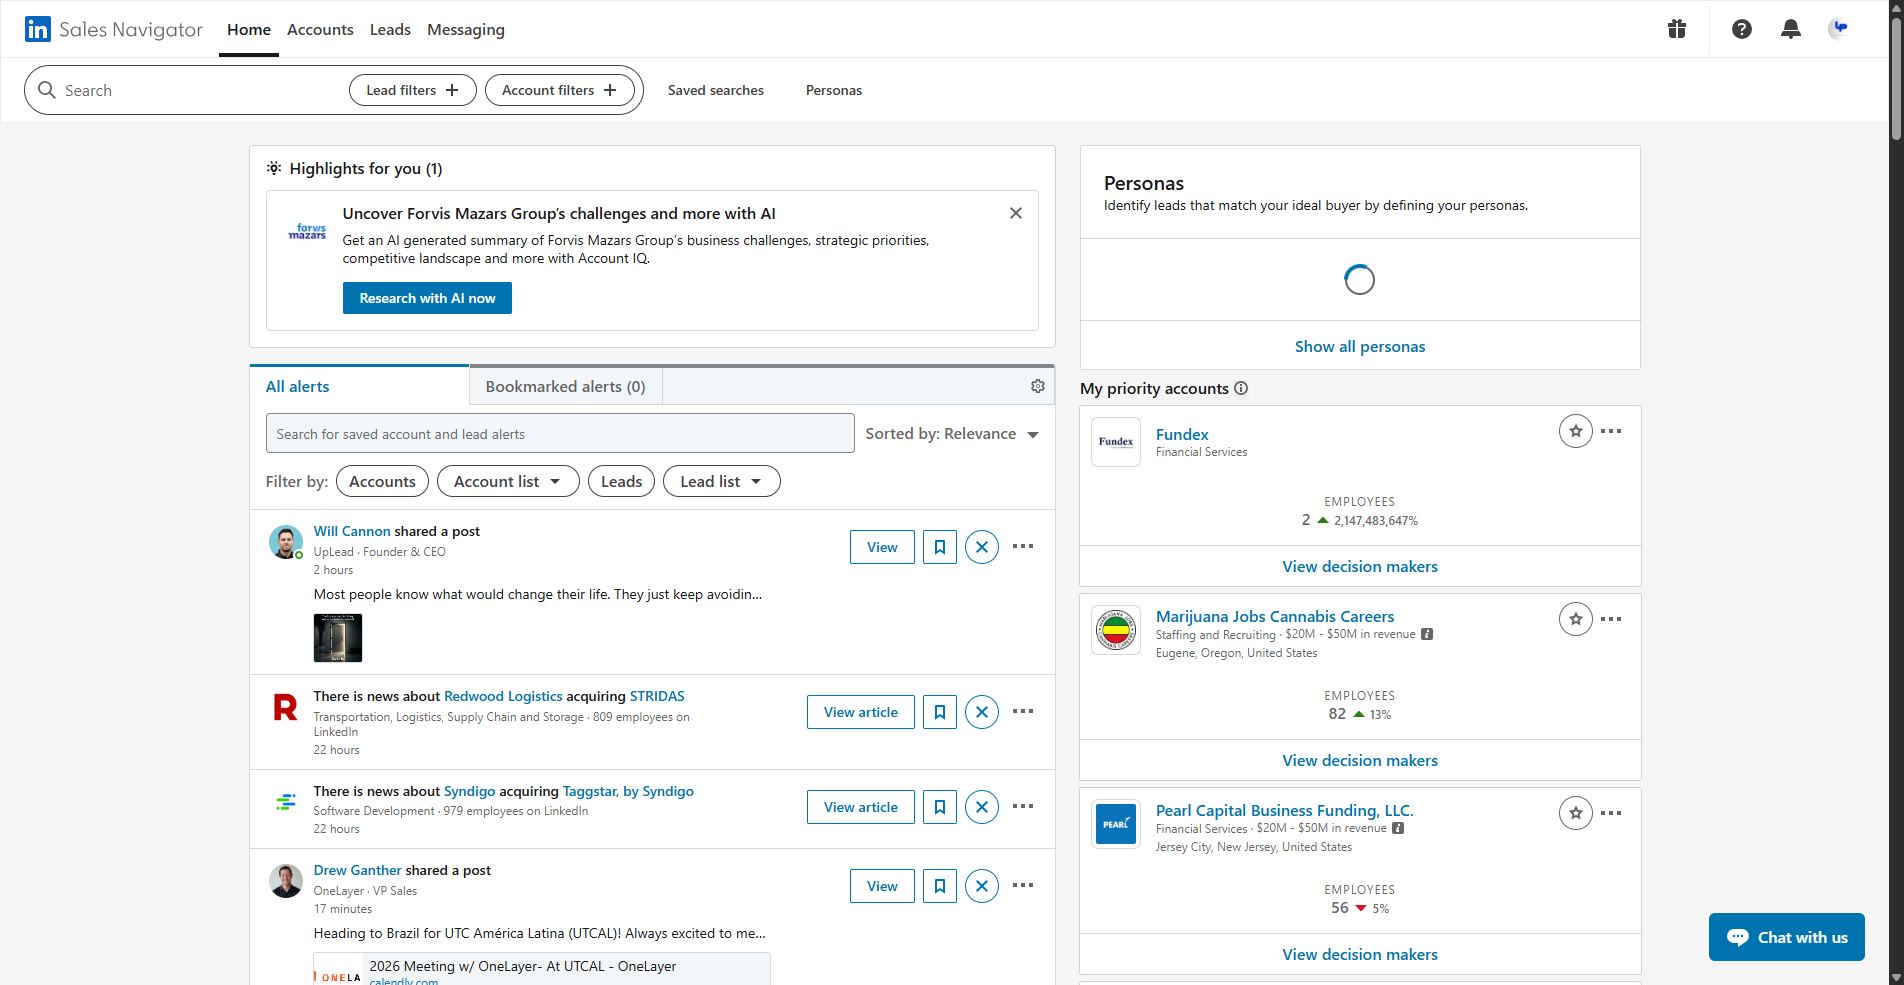
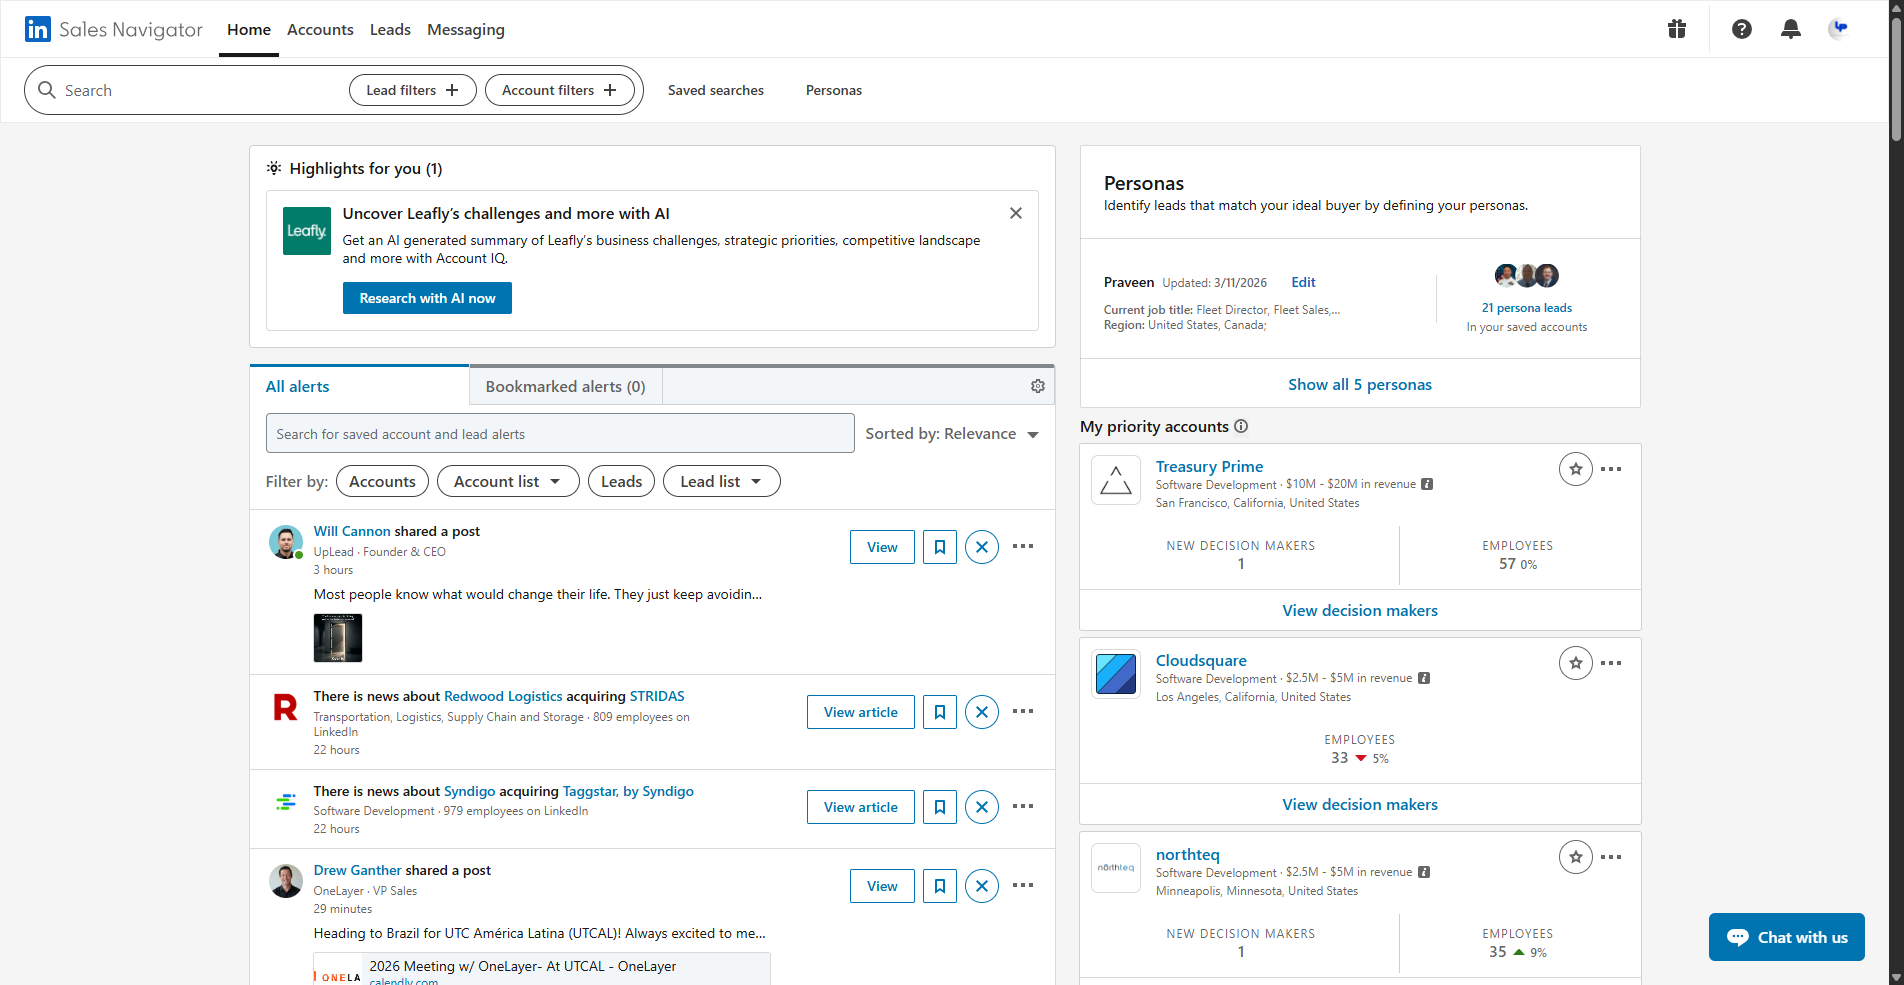
sales navigator

diff --git a/linkd.py b/linkd.py
@@ -294,8 +294,25 @@ class SalesNavigatorScraper:
         if has_sales_nav:
             print("\n✅✅✅ FULL SUCCESS! You can now scrape Sales Navigator! ✅✅✅")
             
-            # Optional: Extract some data
-            response = input("\n🔍 Try extracting sample data? (y/n): ")
+            # Navigate to the target search URL
+            search_url = (
+                "https://www.linkedin.com/sales/search/people"
+                "?query=(recentSearchParam%3A(doLogHistory%3Atrue)%2Cfilters%3AList((type%3ACURRENT_COMPANY"
+                "%2Cvalues%3AList((id%3Aurn%253Ali%253Aorganization%253A66888315%2Ctext%3ANewCo%2520Capital"
+                "%2520Group%2CselectionType%3AINCLUDED)))))"
+                "&sessionId=4EskMkiwQJy%2BYzkxzD03rA%3D%3D&viewAllFilters=true"
+            )
+            print(f"\n🔍 Navigating to target search: NewCo Capital Group...")
+            self.driver.get(search_url)
+            time.sleep(random.uniform(6, 9))
+            
+            current_url = self.driver.current_url
+            print(f"📍 Current URL: {current_url}")
+            self.driver.save_screenshot('search_results.png')
+            print("📸 Screenshot saved as 'search_results.png'")
+            
+            # Optional: Extract data from the search results
+            response = input("\n🔍 Try extracting sample data from results? (y/n): ")
             if response.lower() == 'y':
                 self.extract_sample_data()
         else:
@@ -312,12 +329,17 @@ class SalesNavigatorScraper:
         return True
     
     def extract_sample_data(self):
-        """Extract sample data from Sales Navigator"""
-        print("\n📊 Extracting sample data...")
+        """Extract sample data from Sales Navigator search results"""
+        print("\n📊 Extracting sample data from search results...")
         
         try:
-            # Navigate to search (you can modify this URL)
-            search_url = "https://www.linkedin.com/sales/search/people"
+            search_url = (
+                "https://www.linkedin.com/sales/search/people"
+                "?query=(recentSearchParam%3A(doLogHistory%3Atrue)%2Cfilters%3AList((type%3ACURRENT_COMPANY"
+                "%2Cvalues%3AList((id%3Aurn%253Ali%253Aorganization%253A66888315%2Ctext%3ANewCo%2520Capital"
+                "%2520Group%2CselectionType%3AINCLUDED)))))"
+                "&sessionId=4EskMkiwQJy%2BYzkxzD03rA%3D%3D&viewAllFilters=true"
+            )
             self.driver.get(search_url)
             time.sleep(random.uniform(5, 8))
             
